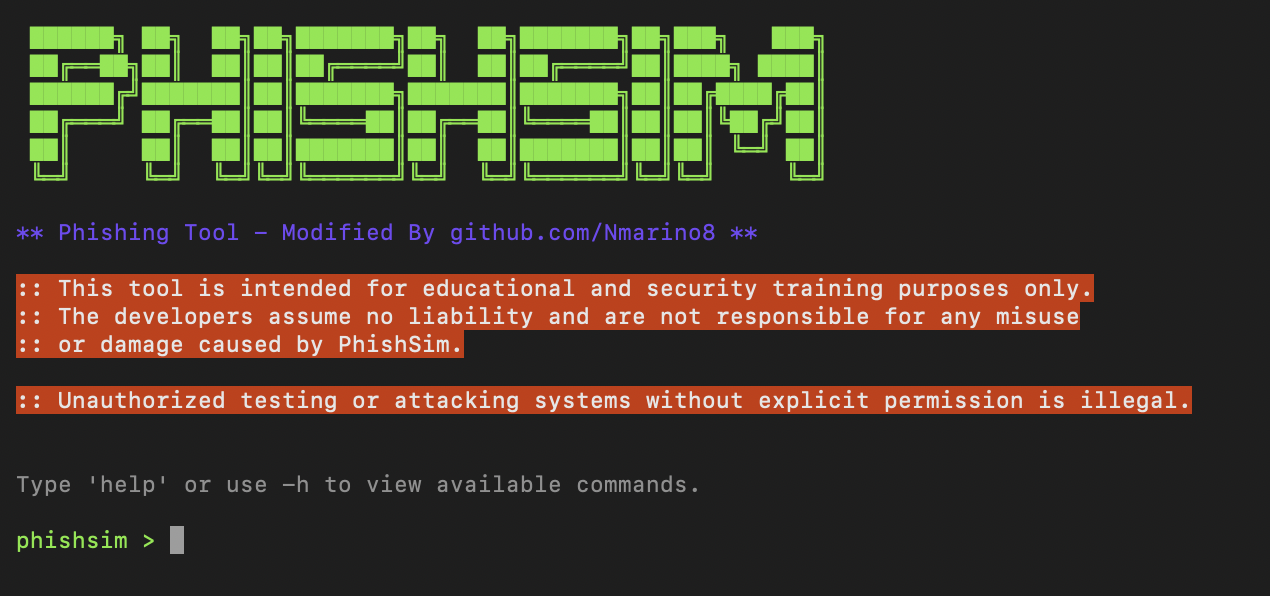
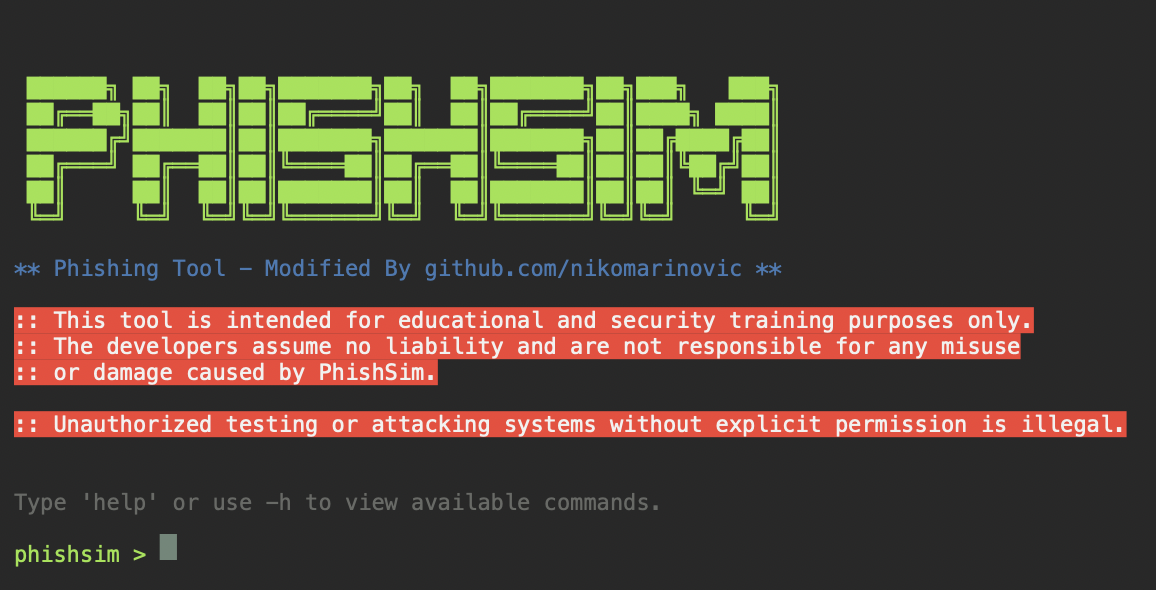
updated screenshots

diff --git a/PhishSim/CLI/ConsoleUI.cs b/PhishSim/CLI/ConsoleUI.cs
@@ -16,7 +16,7 @@ public static class ConsoleUI
         Console.ResetColor();
 
         Console.ForegroundColor = ConsoleColor.DarkBlue;
-        Console.WriteLine("** Phishing Tool - Modified By github.com/Nmarino8 **");
+        Console.WriteLine("** Phishing Tool - Modified By github.com/nikomarinovic **");
         Console.ResetColor();
         Console.WriteLine();
         
